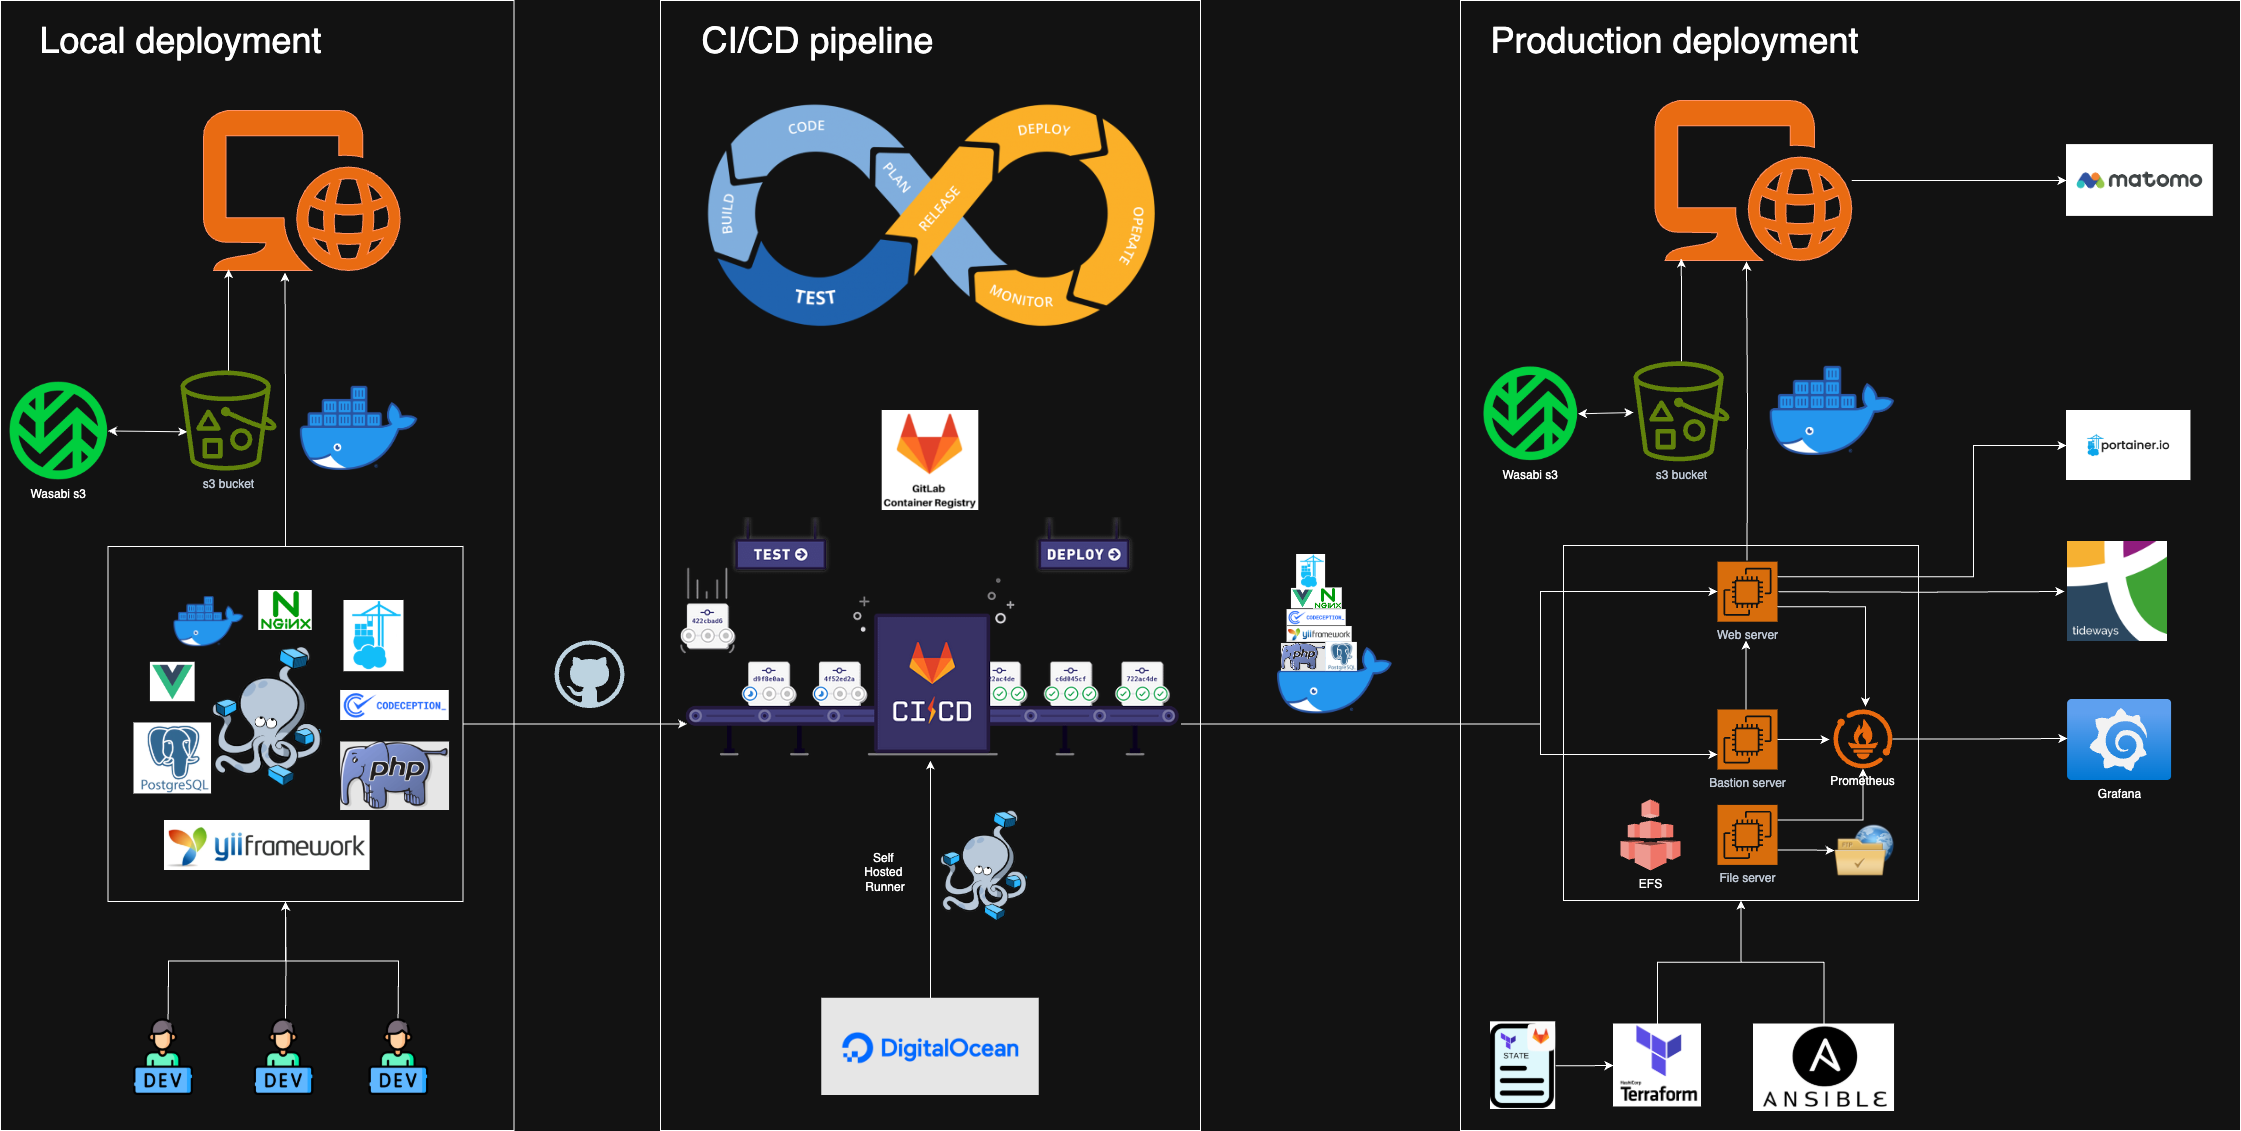
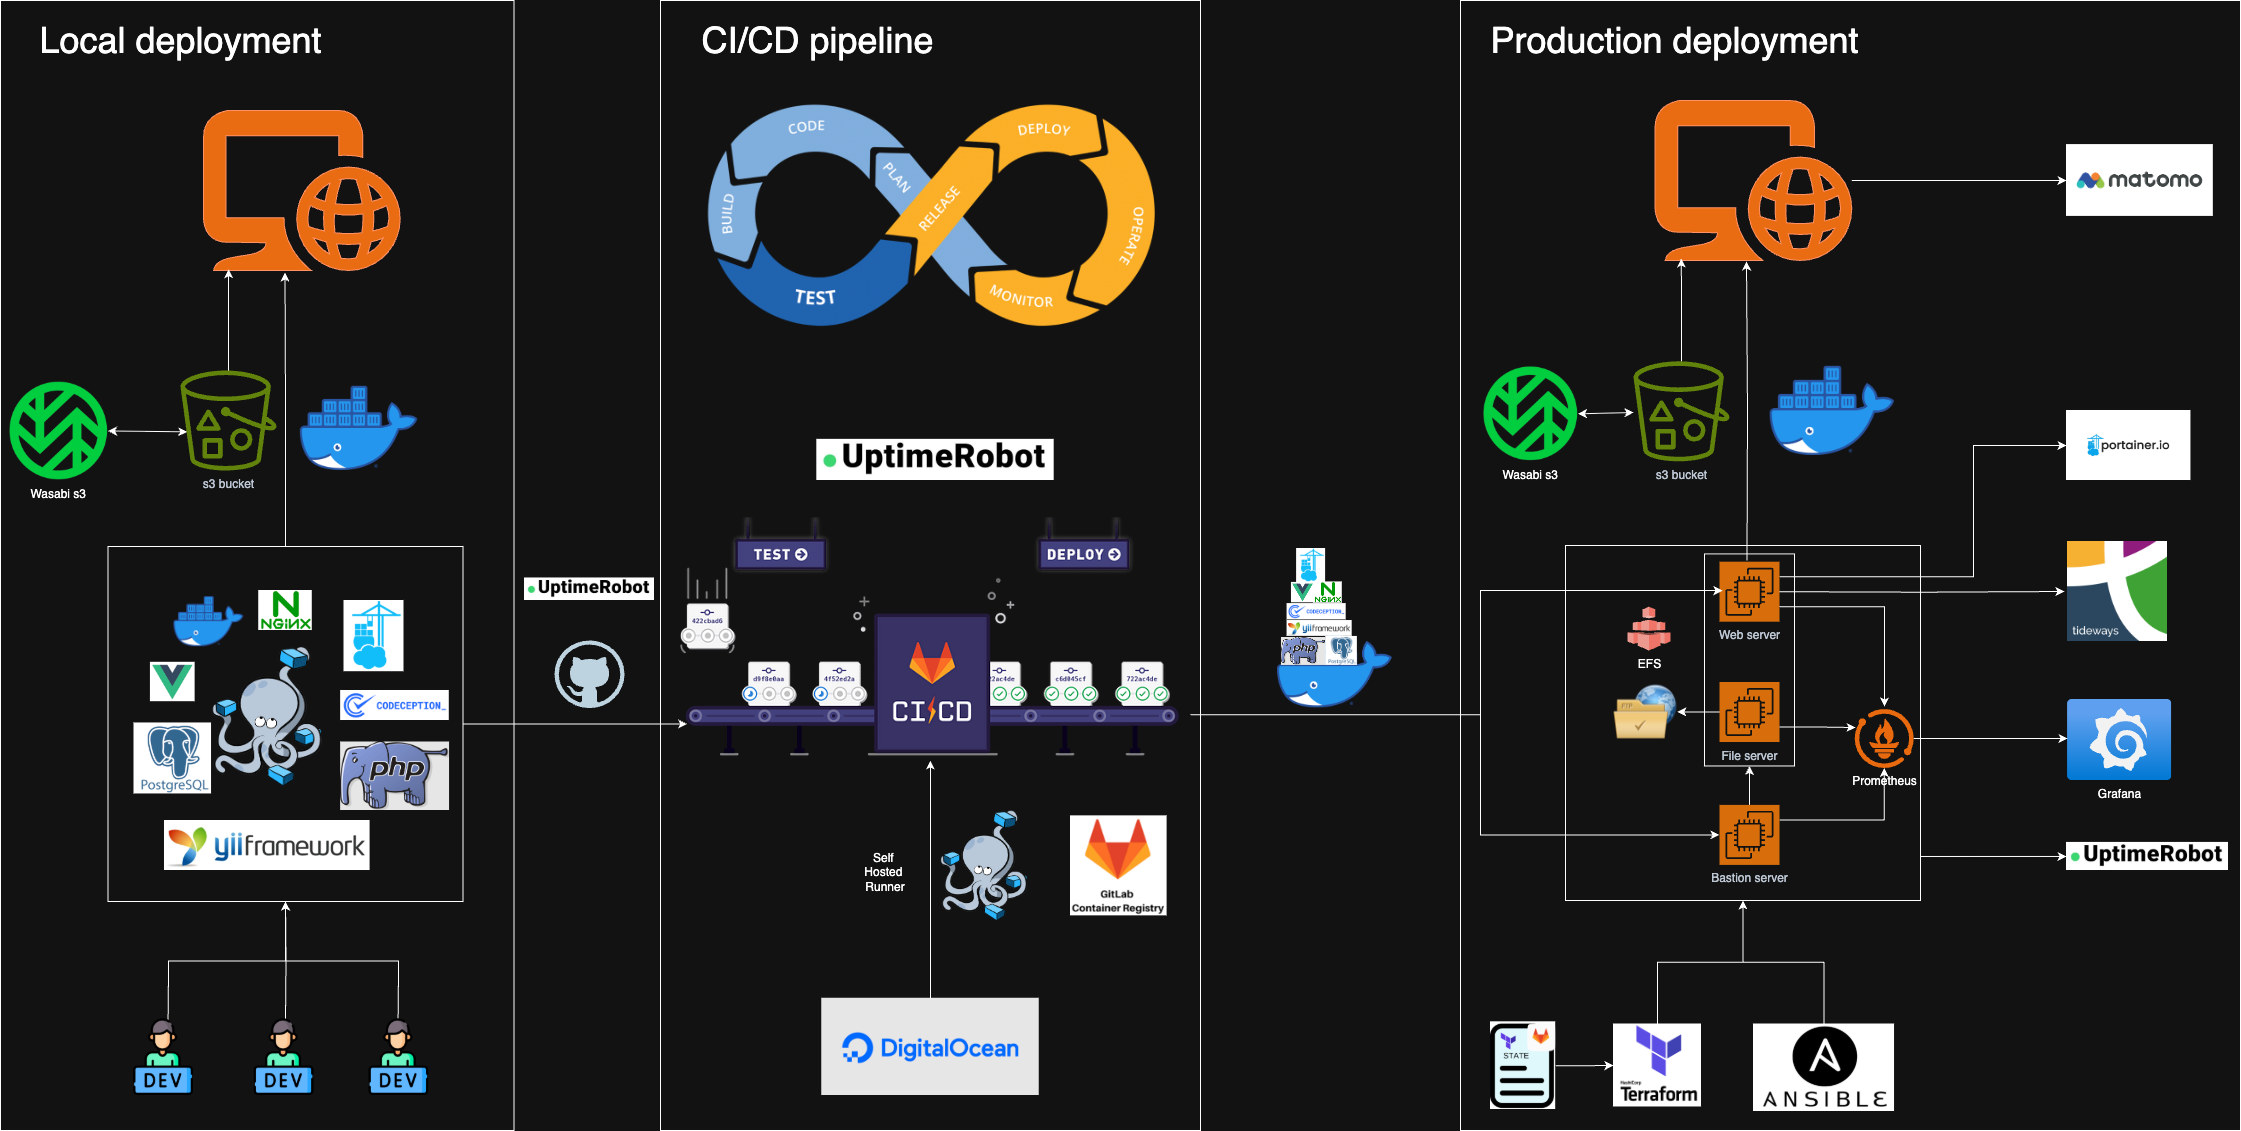
refactor: update the doc content

diff --git a/docs/MONITORING.md b/docs/MONITORING.md
@@ -1,0 +1,113 @@
+# Documentation of GigaDB Infrastructure and Deployment Flow Monitoring
+
+![infra](./infra-gigadb.png)
+
+### Overview
+
+This document focuses specifically on the monitoring aspects of the GigaDB infrastructure and its deployment workflow, 
+detailing the tools and processes used to ensure system health and performance across three core stages: Local, CI/CD, and Production.
+
+### Local infrastructure and Deployment Monitoring
+
+Provide developers with a consistent local environment for coding, testing, and initial containerization, while integrating with cloud storage for asset management.
+
+##### Core Components
+| Category             | Tools                    | Functions                                                                                |
+|----------------------|--------------------------|------------------------------------------------------------------------------------------|
+| Storage              | Wasabi S3, AWS S3 bucket | Storage and backup                                                                       | 
+| Containerization     | Docker                   | Package the application and its dependencies into portable containers                    |
+| Orchestration        | Docker Compose           | Define and run multi-container Docker applications                                       |
+| Frontend             | Vue.js                   | Build frontend logic, serve traffic, store data, and run automated tests                 |
+| Backend              | Yii Framework            | PHP framework for building web applications, manage routing, and handle requests         |
+| Programming language | PHP                      | Develop backend logic and handle server-side operations                                  |
+| Web server           | Nginx                    | Serve up website, reverse proxy to backend services                                      |
+| Database             | PostgreSQL               | Store dataset information                                                                |
+| Testing framework    | Codeception              | Run automated tests to validate code changes                                             |
+| Version control      | GitHub                   | Store and manage codebase, track changes, trigger CI/CD, and collaborate with developers |
+
+##### Workflow
+
+1. Developers use the local stack to build features.
+2. Codeception runs automated tests to validate code changes.
+3. Docker packages the app and its dependencies into a container.
+4. Metadata are stored in Wasabi S3/S3 buckets for testing.
+5. Code is pushed to GitHub, then triggering the CI/CD pipeline.
+
+### CI/CD Pipeline (Automated Testing & Deployment) Monitoring
+
+Automate code validation, testing, and Docker image publishing to ensure quality and readiness for production.
+
+##### Core Components
+
+| Category           | Tools          | 	Functions                                                                                                                   |
+|--------------------|----------------|------------------------------------------------------------------------------------------------------------------------------|
+| Container Registry | GitLab 	       | Store and version Docker images built during the pipeline                                                                    |
+| Terraform state    | GitLab         | Manage infrastructure as code (IaC) for consistent environment provisioning                                                  |
+| Pipeline runner    | Self - Hosted  | Run CI/CD jobs (e.g., testing, image building)                                                                               |
+| Infrastructure     | DigitalOcean   | Provide compute resources for self - hosted runners and pipeline operations                                                  |
+| Pipeline Triggers  | GitHub         | Trigger CI/CD pipeline on code changes                                                                                       |
+| Containerization   | Docker	        | Build and publish production - ready images                                                                                  |
+| Orchestration      | Docker Compose | Define multi-container applications for testing and deployment                                                               |
+| Testing Framework  | Codeception    | Run automated tests to validate code changes                                                                                 |
+| Monitoring         |	UptimeRobot	| External monitoring of the CI/CD environment, ensuring that the pipeline infrastructure itself is operational and responsive |
+
+##### Workflow
+
+1. Code Push Trigger: A code push to the repository (e.g., GitHub) triggers the GitLab CI/CD pipeline.
+2. Conformance and security checks: The pipeline runs conformance and security checks to ensure code quality.
+2. Test Stage: Self-hosted runners execute automated tests (e.g., unit_func_tests, integration_tests, api_tests, legacy_tests).
+3. Build & Publish: If tests pass, the pipeline builds Docker images and pushes them to the GitLab Container Registry.
+4. Deployment: The images will be shipped to production servers for deployment.
+
+### Production infrastructure and Deployment Monitoring
+
+Run the application securely at scale, with monitoring, configuration management, and integration with third-party services.
+
+##### Core Components
+| Category          | Tools                                                                     | Functions                                                                                   |
+|-------------------|---------------------------------------------------------------------------|---------------------------------------------------------------------------------------------|
+| Storage           | Wasabi S3, S3 bucket, EFS (Elastic File System)	                          | Store production assets (Wasabi/S3) and shared files (EFS).                                 | 
+| Containerization	 | Docker	Run production-grade containers (ensures parity with development). |                                                                                             |
+| Containers        | Built and shipped from GitLab                                             |                                                                                             |
+| Monitoring	       | Prometheus                                                                | Collect and store system/application metrics (e.g., server CPU, app response time)          |
+|                   | Grafana                                                                   | Visualize metrics via customizable dashboards                                               |
+|                   | Matomo                                                                    | Tracks user interactions, website traffic, and behavior for analytic                        |
+|                   | Portainer                                                                 | Provides a web-based UI for managing Docker containers (deployment, scaling, health checks) |
+|                   | Tideaways                                                                 | Performance profiling and monitoring, error tracking, alerts and notification,              |
+|                   | UptimeRobot                                                               | Uptime and responsiveness monitoring                                                        |
+| IaC/Configuration | Terraform                                                                 | Define infrastructure                                                                       |
+|                   | Ansible                                                                   | automate configuration                                                                      |
+
+##### Workflow
+
+1. Infrastructure Provisioning (IaC):
+
+Terraform defines and deploys cloud resources (Web Server, Bastion Server, File Server, networking, etc.).
+Configuration Management:
+
+Ansible configures servers (e.g., installs dependencies, sets up security policies).
+
+2. Deploy Container Image:
+
+Docker pulls the pre - built image from GitLab Container Registry and deploys it to the Web Server.
+
+3. Storage & Security:
+
+Wasabi S3 / S3 buckets host production assets.
+Bastion Server restricts access to production resources (e.g., via SSH jump box).
+File Server uses EFS for shared, persistent file storage.
+
+4. Monitoring:
+
+Prometheus scrapes metrics from services (Web Server, databases, etc.).
+Grafana visualizes metrics in dashboards for performance monitoring (e.g., latency, error rates).
+UptimeRobot monitors application uptime (alerts if the Web Server or critical services become unreachable).
+Portainer.io tracks Docker container health (e.g., restart loops, resource limits).
+
+### Summary
+
+1. Local Development → Developers code, test, and containerize locally; push code to GitHub.
+2. CI/CD Automation → GitLab CI/CD runs tests, builds/publishes Docker images to the GitLabregistry.
+3. Production Infrastructure Setup → Terraform provisions resources based on the stored state file from GitLab; Ansible configures environments.
+4. Live Deployment → Docker ships the image to the production servers and spins up the application and services.
+5. Post-Deployment → Teams use Portainer (containers), Grafana (monitoring), and Matomo (analytics) to manage and optimize.
